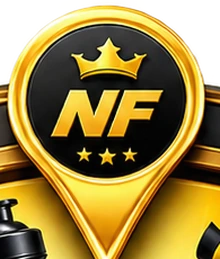
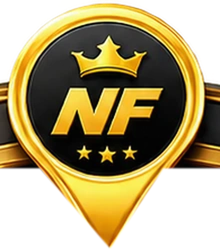
updated the wheel pointer

diff --git a/index.html b/index.html
@@ -517,8 +517,8 @@
   /* wheel */
   .spin-wheel-wrap{position:relative;width:240px;height:240px;margin:34px auto 6px;}
   .spin-pointer-img{
-    position:absolute;top:-38px;left:50%;transform:translateX(-50%);
-    width:56px;height:auto;z-index:3;
+    position:absolute;top:-21px;left:50%;transform:translateX(-50%);
+    width:48px;height:auto;z-index:3;
     filter:drop-shadow(0 3px 6px rgba(0,0,0,0.6));
   }
   .spin-wheel{
